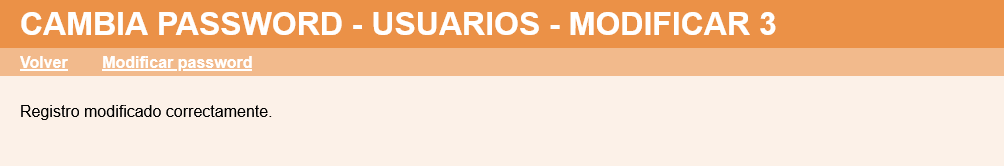
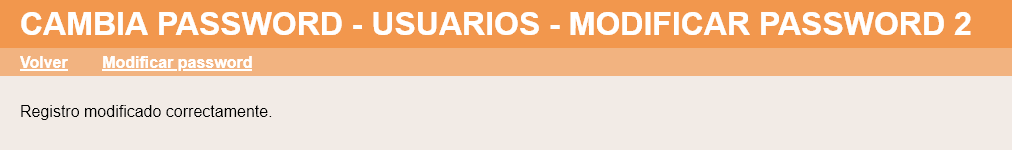
Ejercicios Bases de datos 3 C: mejoro capturas; añado en los enunciados información sobre nombre de páginas y controles para Selenium

Changed region(s): [[0.0, 0.0533, 0.9572, 0.24], [0.0, 0.2667, 1.0, 0.5067], [0.0, 0.6133, 0.2779, 0.8]]

diff --git a/ejercicios/bases-datos/bases-de-datos-3-c/index.html b/ejercicios/bases-datos/bases-de-datos-3-c/index.html
@@ -40,7 +40,11 @@
 
   <p>Esta página de ejercicios contiene algunos de los ejercicios planteados en exámenes durante el curso 2021/22.</p>
 
-  <p>Para facilitar la realización de los ejercicios, se proporcionan unas <a href="../../../soluciones/2223/db-bases-de-datos-3-c-plantillas.zip">plantillas de los ejercicios Bases de datos (3 C) (Bases de datos)</a>. En todos los ejercicios, la plantilla es como la aplicación de ejemplo 3 (C) 0</p>
+  <p>Para facilitar la realización de los ejercicios, se proporcionan unas <a href="../../../soluciones/2223/db-bases-de-datos-3-c-plantillas.zip">plantillas de los ejercicios Bases de datos (3 C) (Bases de datos)</a>:</p>
+  <ul>
+    <li>La aplicación de ejemplo 3 (C) 0 es como la solución del ejercicio Bases de datos (3) B 1. En todos los ejercicios, la plantilla es como la aplicación de ejemplo 3 (C) 0</li>
+    <li>Las plantillas incluyen ficheros .side que permiten la comprobación con <a href="../../../otros/selenium.html">Selenium IDE</a> del funcionamiento de la aplicación de ejemplo y de los ejercicios.</li>
+  </ul>
 
   <p>Puede descargar unas posibles soluciones de estos ejercicios en la <a href="../../../soluciones/index.html#22-23-con-bases-de-datos">página de soluciones</a>.</p>
 
@@ -60,19 +64,21 @@
   <section id="ejercicio-1">
     <h2>Bases de datos (3 C) 1 - Estadísticas de administrador</h2>
 
-    <p>En este ejercicio se debe ampliar la aplicación proporcionada en la plantilla de manera que al crear un nuevo usuario de la aplicación, la contraseña no se muestre en la pantalla al escribirla y en su lugar se solicite dos veces para confirmarla.</p>
-
     <p>En este ejercicio se debe ampliar la aplicación proporcionada en la plantilla de manera que el administrador pueda consultar un página con estadísticas de la base de datos (por ejemplo, el número de registros guardados en cada tabla).</p>
 
     <ul>
+      <li>Para la comprobación del programa con Selenium, la página de estadísticas debe llamarse "estadisticas.php" y estar guardada en el directorio "administrador".</li>
       <li>Los usuarios administradores pueden ver en su menú una nueva opción, "Estadísticas":
-        <p class="captura"><img src="../../../examenes/21-22/img/db-estadisticas-administrador-1.png" alt="Estadísticas de administrador" width="1077" height="290"></p>
+        <p class="captura"><img src="../../../examenes/21-22/img/db-estadisticas-administrador-1.png" alt="Estadísticas de administrador" width="1012" height="120"></p>
       </li>
       <li>La página de estadísticas muestra el número de registros guardados en cada tabla:
-        <p class="captura"><img src="../../../examenes/21-22/img/db-estadisticas-administrador-2.png" alt="Estadísticas de administrador" width="1077" height="290"></p>
+        <p class="captura"><img src="../../../examenes/21-22/img/db-estadisticas-administrador-2.png" alt="Estadísticas de administrador" width="1012" height="180"></p>
+        <p class="captura"><img src="../../../examenes/21-22/img/db-estadisticas-administrador-3.png" alt="Estadísticas de administrador" width="1012" height="180"></p>
       </li>
       <li>Únicamente los administradores podrán abrir esa página.</li>
     </ul>
+
+    <hr class="corta">
 
     <div class="filaflex">
       <iframe src="db-estadisticas-administrador/index.php" style="height: 30em;"></iframe>
@@ -88,6 +94,7 @@
     <p>En este ejercicio se debe ampliar la aplicación proporcionada en la plantilla de manera que al crear un nuevo usuario de la aplicación, la contraseña no se muestre en la pantalla al escribirla y en su lugar se solicite dos veces para confirmarla.</p>
 
     <ul>
+      <li>Para la comprobación del programa con Selenium, el control en el que se escribe de nuevo la contraseña debe llamarse "password2".</li>
       <li>Al crear un nuevo usuario, el formulario no mostrará la contraseña y la pedirá por duplicado:
         <p class="captura"><img src="../../../examenes/21-22/img/db-confirma-contrasena-1.png" alt="Confirma contraseña" width="1012" height="300"></p>
       </li>
@@ -101,6 +108,8 @@
         <p class="captura"><img src="../../../examenes/21-22/img/db-confirma-contrasena-4.png" alt="Confirma contraseña" width="1012" height="150"></p>
       </li>
     </ul>
+
+    <hr class="corta">
 
     <div class="filaflex">
       <iframe src="db-confirma-contrasena/index.php" style="height: 30em;"></iframe>
@@ -129,6 +138,8 @@
       </li>
     </ul>
 
+    <hr class="corta">
+
     <div class="filaflex">
       <iframe src="db-usuario-miron/index.php" style="height: 30em;"></iframe>
       <div class="icono-enlace">
@@ -143,6 +154,7 @@
     <p>En este ejercicio se debe ampliar la aplicación proporcionada en la plantilla de manera que haya que proporcionar un correo electrónico para cada usuario de la aplicación.</p>
 
     <ul>
+      <li>Para la comprobación del programa con Selenium, el control en el que se escribe el correo del usuario debe llamarse "correo" (también se puede llamar así el campo en la tabla Usuarios).</li>
       <li>La aplicación debe funcionar tanto con SQLite como con MariaDB/MySQL. El usuario de MariaDB/MySQL deberá tener su nombre de pila, en minúsculas y sin acentos y ser un usuario con una base de datos de su mismo nombre. Haga una captura de pantalla de la creación del usuario y otra de la vista cuando entra en phpMyAdmin con ese usuario.</li>
       <li>Al iniciar la aplicación por primera vez, el usuario root tendrá la dirección de correo root@example.com (la dirección será una variable de configuración):
         <p class="captura"><img src="../../../examenes/21-22/img/db-correo-usuarios-1.png" alt="Correo de usuarios" width="1012" height="310"></p>
@@ -167,6 +179,8 @@
       </li>
     </ul>
 
+    <hr class="corta">
+
     <div class="filaflex">
       <iframe src="db-correo-usuarios/index.php" style="height: 30em;"></iframe>
       <div class="icono-enlace">
@@ -181,6 +195,7 @@
     <p>En este ejercicio se debe ampliar la aplicación proporcionada en la plantilla de manera que se solicite confirmación si al crear un nuevo registro de Personas, ya existe en la tabla un registro con el mismo correo, teléfono o combinación de nombre y apellidos.</p>
 
     <ul>
+      <li>Para la comprobación del programa con Selenium, la página "tabla-personas/insertar-2.php" debe enviar los datos a la página "tabla-personas/insertar-3.php" para su inserción en la base de datos. Los botones Enviar "Sí" y "no" en insertar-2.php deben llamarse "insertar".</li>
       <li>Al crear un nuevo usuario, el formulario es el mismo de siempre:
         <p class="captura"><img src="../../../examenes/21-22/img/db-datos-repetidos-1.png" alt="Datos repetidos" width="1077" height="290"></p>
       </li>
@@ -198,6 +213,8 @@
       </li>
     </ul>
 
+    <hr class="corta">
+
     <div class="filaflex">
       <iframe src="db-datos-repetidos/index.php" style="height: 30em;"></iframe>
       <div class="icono-enlace">
@@ -212,6 +229,7 @@
     <p>En este ejercicio se debe ampliar la aplicación proporcionada en la plantilla de manera que el menú de personas ofrezca a los usuarios básicos y a los administradores una opción nueva llamada "Incompletos", que mostrará los registros en los que falte algún dato y ofrecerá la posibilidad de completarlos.</p>
 
     <ul>
+      <li>Para la comprobación del programa con Selenium, las páginas para seleccionar y completar los registros incompletos de Personas se deben llamar "incompletos-1.php", "incompletos-2.php" e "incompletos-3.php". Los controles se deben llamar como los campos correspondiente de la tabla Personas (como en las páginas de insertar y modificar habituales).</li>
       <li>Si no falta ningún dato en ningún registro, se mostrará un aviso:
         <p class="captura"><img src="../../../examenes/21-22/img/db-registros-incompletos-1.png" alt="Registros de personas incompletos" width="1012" height="150"></p>
       </li>
@@ -223,9 +241,11 @@
       </li>
       <li>Los nuevos datos se guardarán en la base de datos:
         <p class="captura"><img src="../../../examenes/21-22/img/db-registros-incompletos-4.png" alt="Registros de personas incompletos" width="1012" height="150"></p>
-        <p class="captura"><img src="../../../examenes/21-22/img/db-registros-incompletos-5.png" alt="Registros de personas incompletos" width="1012" height="300"></p>
+        <p class="captura"><img src="../../../examenes/21-22/img/db-registros-incompletos-5.png" alt="Registros de personas incompletos" width="1012" height="260"></p>
       </li>
     </ul>
+
+    <hr class="corta">
 
     <div class="filaflex">
       <iframe src="db-registros-incompletos/index.php" style="height: 30em;"></iframe>
@@ -241,6 +261,7 @@
     <p>En este ejercicio se debe ampliar la aplicación proporcionada en la plantilla de manera que un usuario pueda cambiar su contraseña.</p>
 
     <ul>
+      <li>Para la comprobación del programa con Selenium, las páginas para cambiar la contraseña se deben llamar "password-1.php" y "password-2.php". El control para la nueva contraseña se debe llamar "password".</li>
       <li>Los usuarios básicos pueden ver en su menú principal una nueva opción, "Usuarios":
         <p class="captura"><img src="../../../examenes/21-22/img/db-cambiar-password-1.png" alt="Cambiar password de usuario" width="990" height="121"></p>
       </li>
@@ -249,10 +270,12 @@
       </li>
       <li>La opción "Modificar password" muestra un formulario en el que se puede escribir la nueva contraseña:
         <p class="captura"><img src="../../../examenes/21-22/img/db-cambiar-password-3.png" alt="Cambiar password de usuario" width="1004" height="245"></p>
-        <p class="captura"><img src="../../../examenes/21-22/img/db-cambiar-password-4.png" alt="Cambiar password de usuario" width="1004" height="245"></p>
+        <p class="captura"><img src="../../../examenes/21-22/img/db-cambiar-password-4.png" alt="Cambiar password de usuario" width="1012" height="150"></p>
       </li>
       <li>Compruebe que el usuario ha cambiado la contraseña, saliendo de la aplicación y entrando con la nueva contraseña</li>
     </ul>
+
+    <hr class="corta">
 
     <div class="filaflex">
       <iframe src="db-cambia-password/index.php" style="height: 30em;"></iframe>
@@ -268,6 +291,7 @@
     <p>En este ejercicio se debe ampliar la aplicación proporcionada en la plantilla de manera que se lleve la cuenta del número de conexiones que ha realizado cada usuario y se le avise cuando el número de conexiones supere un valor de configuración predefinido.</p>
 
     <ul>
+      <li>Para la comprobación del programa con Selenium, el control en el que se escribe el número de conexiones debe llamarse "conexiones" (también se puede llamar así el campo en la tabla Usuarios).</li>
       <li>La aplicación debe funcionar tanto con SQLite como con MariaDB/MySQL. El usuario de MariaDB/MySQL deberá tener su nombre de pila, en minúsculas y sin acentos y ser un usuario con una base de datos de su mismo nombre. Haga una captura de pantalla de la creación del usuario y otra de la vista cuando entra en phpMyAdmin con ese usuario.</li>
       <li>Al iniciar la aplicación por primera vez, el usuario root tendrá como número de conexiones el valor 0. La variable de configuración que contiene el valor a partir del cual se avisará a los usuarios se puede llamar $cfg["numeroConexionesAviso"], cuyo valor puede ser 3:
         <p class="captura"><img src="../../../examenes/21-22/img/db-contador-conexiones-1.png" alt="Contador de número de conexiones" width="1012" height="480"></p>
@@ -290,8 +314,10 @@
       <li>El aviso se mostrará sea siempre una vez superado el número de conexiones predefinidas:
         <p class="captura"><img src="../../../examenes/21-22/img/db-contador-conexiones-9.png" alt="Contador de número de conexiones" width="1012" height="153"></p>
       </li>
-      <li>Al cambiar la contraseña, el contador se volverá a poner a cero.</li>
+      <li>Al cambiar el nombre de usuario, la contraseña o el nivel de un usuario, el contador de conexiones se volverá a poner a cero.</li>
     </ul>
+
+    <hr class="corta">
 
     <div class="filaflex">
       <iframe src="db-contador-conexiones/index.php" style="height: 30em;"></iframe>
@@ -309,6 +335,7 @@
     <p><strong>Nota</strong>: la aplicación no identifica al usuario que ha creado el registro de persona, por lo que el número máximo de registros se debe comparar con el total de registros de personas, independientemente de qué usuario los haya creado.</p>
 
     <ul>
+      <li>Para la comprobación del programa con Selenium, el control en el que se escribe el número máximo de registros debe llamarse "registros" (también se puede llamar así el campo en la tabla Usuarios).</li>
       <li>La aplicación debe funcionar tanto con SQLite como con MariaDB/MySQL. El usuario de MariaDB/MySQL deberá tener su nombre de pila, en minúsculas y sin acentos y ser un usuario con una base de datos de su mismo nombre. Haga una captura de pantalla de la creación del usuario y otra de la vista cuando entra en phpMyAdmin con ese usuario.</li>
       <li>Al iniciar la aplicación por primera vez, el usuario root tendrá como número máximo de registros la variable de configuración $cfg["tablaPersonasMaxReg"]:
         <p class="captura"><img src="../../../examenes/21-22/img/db-numero-registros-usuarios-1.png" alt="Número de registros de usuarios" width="1060" height="480"></p>
@@ -320,7 +347,7 @@
         <p class="captura"><img src="../../../examenes/21-22/img/db-numero-registros-usuarios-5.png" alt="Número de registros de usuarios" width="1077" height="280"></p>
       </li>
       <li>Al crear un nuevo usuario, se solicitará un número máximo de registros (obligatorio):
-        <p class="captura"><img src="i../../../examenes/21-22/mg/db-2-numero-registros-usuarios-6.png" alt="Número de registros de usuarios" width="1077" height="300"></p>
+        <p class="captura"><img src="i../../../examenes/21-22/mg/db-numero-registros-usuarios-6.png" alt="Número de registros de usuarios" width="1077" height="300"></p>
       </li>
       <li>Si no se escribe un valor, se producirá el aviso correspondiente:
         <p class="captura"><img src="../../../examenes/21-22/img/db-numero-registros-usuarios-7.png" alt="Número de registros de usuarios" width="1077" height="150"></p>
@@ -335,6 +362,8 @@
       </li>
     </ul>
 
+    <hr class="corta">
+
     <div class="filaflex">
       <iframe src="db-numero-registros-usuario/index.php" style="height: 30em;"></iframe>
       <div class="icono-enlace">
@@ -344,7 +373,7 @@
   </section>
 
   <footer>
-    <p class="ultmod">Última modificación de esta página: 30 de enero de 2023</p>
+    <p class="ultmod">Última modificación de esta página: 31 de enero de 2023</p>
 
     <p class="licencia">
       <a rel="license" href="https://creativecommons.org/licenses/by-sa/4.0/deed.es_ES"><img src="../../../varios/iconos/icono-cc-by-sa.svg" alt="Licencia Creative Commons" title="Licencia Creative Commons BY-SA" width="120" height="42"></a><br>

diff --git a/examenes/21-22/db-3-cambiar-password.html b/examenes/21-22/db-3-cambiar-password.html
@@ -43,7 +43,7 @@
       </li>
       <li>La opción "Modificar password" muestra un formulario en el que se puede escribir la nueva contraseña:
         <p class="captura"><img src="img/db-cambiar-password-3.png" alt="Cambiar password de usuario" width="1004" height="245"></p>
-        <p class="captura"><img src="img/db-cambiar-password-4.png" alt="Cambiar password de usuario" width="1004" height="245"></p>
+        <p class="captura"><img src="img/db-cambiar-password-4.png" alt="Cambiar password de usuario" width="1012" height="150"></p>
       </li>
       <li>Compruebe que el usuario ha cambiado la contraseña, saliendo de la aplicación y entrando con la nueva contraseña</li>
     </ul>

diff --git a/examenes/21-22/db-3-contador-conexiones.html b/examenes/21-22/db-3-contador-conexiones.html
@@ -57,7 +57,7 @@
       <li>El aviso se mostrará sea siempre una vez superado el número de conexiones predefinidas:
         <p class="captura"><img src="img/db-contador-conexiones-9.png" alt="Contador de número de conexiones" width="1012" height="153"></p>
       </li>
-      <li>Al cambiar la contraseña, el contador se volverá a poner a cero.</li>
+      <li>Al cambiar el nombre de usuario, la contraseña o el nivel de un usuario, el contador de conexiones se volverá a poner a cero.</li>
       <li>Haga con phpMyAdmin una copia de seguridad de la base de datos, como usuario con su nombre.</li>
     </ul>
   </section>

diff --git a/examenes/21-22/db-1-personas-incompleto.html b/examenes/21-22/db-1-personas-incompleto.html
@@ -46,7 +46,7 @@
       </li>
       <li>Los nuevos datos se guardarán en la base de datos:
         <p class="captura"><img src="img/db-registros-incompletos-4.png" alt="Registros de personas incompletos" width="1012" height="150"></p>
-        <p class="captura"><img src="img/db-registros-incompletos-5.png" alt="Registros de personas incompletos" width="1012" height="300"></p>
+        <p class="captura"><img src="img/db-registros-incompletos-5.png" alt="Registros de personas incompletos" width="1012" height="260"></p>
       </li>
     </ul>
   </section>

diff --git a/examenes/21-22/db-3-estadisticas-administrador.html b/examenes/21-22/db-3-estadisticas-administrador.html
@@ -40,6 +40,7 @@
       </li>
       <li>La página de estadísticas muestra el número de registros guardados en cada tabla:
         <p class="captura"><img src="img/db-estadisticas-administrador-2.png" alt="Estadísticas de administrador" width="1077" height="290"></p>
+        <p class="captura"><img src="img/db-estadisticas-administrador-3.png" alt="Estadísticas de administrador" width="1012" height="180"></p>
       </li>
       <li>Únicamente los administradores podrán abrir esa página.</li>
     </ul>

diff --git a/index.html b/index.html
@@ -277,7 +277,7 @@
   </div>
 
   <footer>
-    <p class="ultmod">Última modificación de alguna página de este curso: 30 de enero de 2023</p>
+    <p class="ultmod">Última modificación de alguna página de este curso: 31 de enero de 2023</p>
 
     <p class="licencia">
       <a rel="license" href="https://creativecommons.org/licenses/by-sa/4.0/deed.es_ES"><img src="varios/iconos/icono-cc-by-sa.svg" alt="Licencia Creative Commons" title="Licencia Creative Commons BY-SA" width="120" height="42"></a><br>
